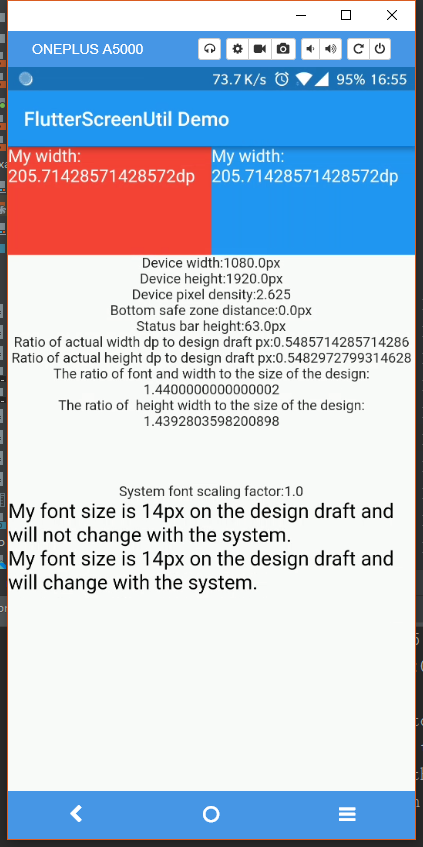
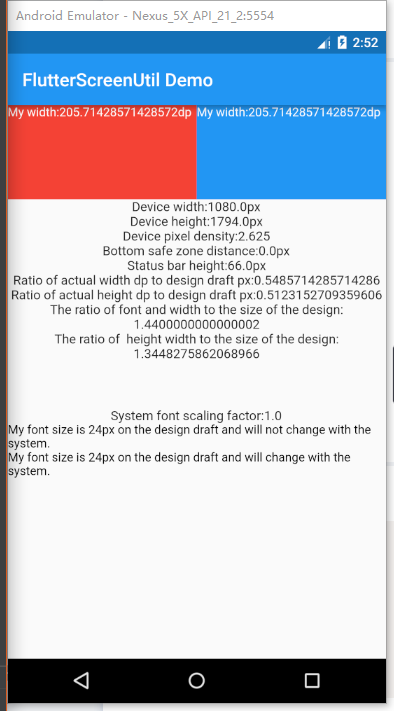
优化示例和图片

diff --git a/example/lib/main_zh.dart b/example/lib/main_zh.dart
@@ -28,7 +28,6 @@ class MyHomePage extends StatefulWidget {
 }
 
 class _MyHomePageState extends State<MyHomePage> {
-
   @override
   Widget build(BuildContext context) {
     //设置适配尺寸 (填入设计稿中设备的屏幕尺寸) 假如设计稿是按iPhone6的尺寸设计的(iPhone6 750*1334)
@@ -46,8 +45,7 @@ class _MyHomePageState extends State<MyHomePage> {
 
     print(
         '宽度和字体相对于设计稿放大的比例:${ScreenUtil().scaleWidth * ScreenUtil.pixelRatio}');
-    print(
-        '高度相对于设计稿放大的比例:${ScreenUtil().scaleHeight * ScreenUtil.pixelRatio}');
+    print('高度相对于设计稿放大的比例:${ScreenUtil().scaleHeight * ScreenUtil.pixelRatio}');
     print('系统的字体缩放比例:${ScreenUtil.textScaleFactory}');
 
     return new Scaffold(
@@ -68,7 +66,7 @@ class _MyHomePageState extends State<MyHomePage> {
                     '我的宽度:${ScreenUtil().setWidth(375)}dp',
                     style: TextStyle(
                       color: Colors.white,
-                      fontSize: ScreenUtil().setSp(12, false),
+                      fontSize: ScreenUtil().setSp(24, false),
                     ),
                   ),
                 ),
@@ -79,7 +77,7 @@ class _MyHomePageState extends State<MyHomePage> {
                   child: Text('我的宽度:${ScreenUtil().setWidth(375)}dp',
                       style: TextStyle(
                         color: Colors.white,
-                        fontSize: ScreenUtil().setSp(12, false),
+                        fontSize: ScreenUtil().setSp(24, false),
                       )),
                 ),
               ],
@@ -112,13 +110,13 @@ class _MyHomePageState extends State<MyHomePage> {
             Column(
               crossAxisAlignment: CrossAxisAlignment.start,
               children: <Widget>[
-                Text('我的文字大小在设计稿上是14px，不会随着系统的文字缩放比例变化',
+                Text('我的文字大小在设计稿上是25px，不会随着系统的文字缩放比例变化',
                     style: TextStyle(
                         color: Colors.black,
-                        fontSize: ScreenUtil().setSp(14, false))),
-                Text('我的文字大小在设计稿上是14px，会随着系统的文字缩放比例变化',
+                        fontSize: ScreenUtil().setSp(24, false))),
+                Text('我的文字大小在设计稿上是25px，会随着系统的文字缩放比例变化',
                     style: TextStyle(
-                        color: Colors.black, fontSize: ScreenUtil().setSp(14))),
+                        color: Colors.black, fontSize: ScreenUtil().setSp(24))),
               ],
             )
           ],

diff --git a/example/lib/main.dart b/example/lib/main.dart
@@ -67,7 +67,7 @@ class _MyHomePageState extends State<MyHomePage> {
                     'My width:${ScreenUtil().setWidth(375)}dp',
                     style: TextStyle(
                         color: Colors.white,
-                        fontSize: ScreenUtil().setSp(12, false)),
+                        fontSize: ScreenUtil().setSp(24, false)),
                   ),
                 ),
                 Container(
@@ -77,7 +77,7 @@ class _MyHomePageState extends State<MyHomePage> {
                   child: Text('My width:${ScreenUtil().setWidth(375)}dp',
                       style: TextStyle(
                           color: Colors.white,
-                          fontSize: ScreenUtil().setSp(12, false))),
+                          fontSize: ScreenUtil().setSp(24, false))),
                 ),
               ],
             ),
@@ -110,16 +110,16 @@ class _MyHomePageState extends State<MyHomePage> {
               crossAxisAlignment: CrossAxisAlignment.start,
               children: <Widget>[
                 Text(
-                    'My font size is 14px on the design draft and will not change with the system.',
+                    'My font size is 24px on the design draft and will not change with the system.',
                     style: TextStyle(
                       color: Colors.black,
-                      fontSize: ScreenUtil().setSp(14, false),
+                      fontSize: ScreenUtil().setSp(24, false),
                     )),
                 Text(
-                    'My font size is 14px on the design draft and will change with the system.',
+                    'My font size is 24px on the design draft and will change with the system.',
                     style: TextStyle(
                       color: Colors.black,
-                      fontSize: ScreenUtil().setSp(14),
+                      fontSize: ScreenUtil().setSp(24),
                     )),
               ],
             )
